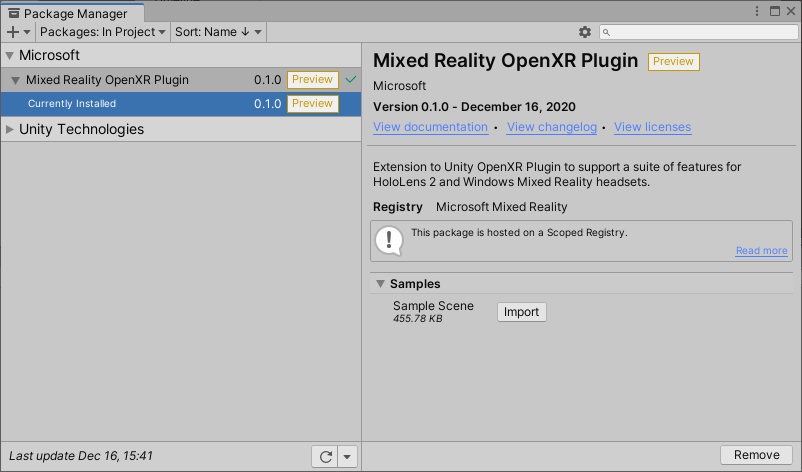
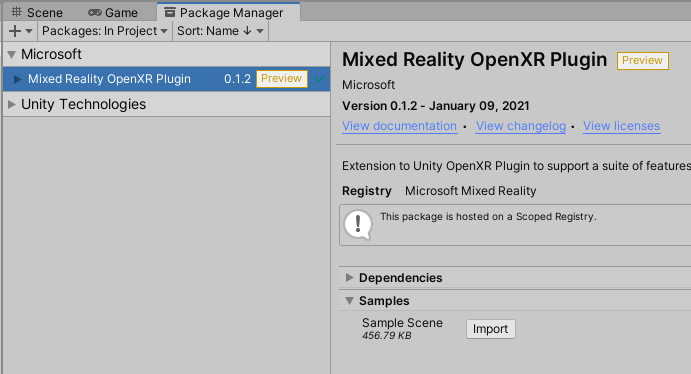
Add content for 0.1.2 release

diff --git a/mixed-reality-docs/mr-dev-docs/develop/unity/openxr-getting-started.md b/mixed-reality-docs/mr-dev-docs/develop/unity/openxr-getting-started.md
@@ -8,7 +8,6 @@ ms.topic: article
 keywords: openxr, unity, hololens, hololens 2, mixed reality, MRTK, Mixed Reality Toolkit, augmented reality, virtual reality, mixed reality headsets, learn, tutorial, getting started
 ---
 
-
 # Using the Mixed Reality OpenXR Plugin for Unity
 
 Starting with Unity version 2020.2, Microsoft’s Mixed Reality OpenXR Plugin package is available using the Unity Package Manager (UPM).
@@ -16,7 +15,7 @@ Starting with Unity version 2020.2, Microsoft’s Mixed Reality OpenXR Plugin pa
 ## Prerequisites
 
 * Unity 2020.2 or later
-* Unity OpenXR plugin 0.1.1 or later
+* Unity OpenXR plugin 0.1.2 or later
 * Visual Studio 2019 or later
 * Install **UWP** platform support in Unity for HoloLens 2 apps
 
@@ -58,7 +57,7 @@ To add the OpenXR package:
 
     ``` json
       "dependencies": {
-        "com.microsoft.mixedreality.openxr": "0.1.1",
+        "com.microsoft.mixedreality.openxr": "0.1.2",
       }
     ```
 
@@ -105,7 +104,7 @@ To utilize one or more of the examples, install [ARFoundation 4.0+](https://docs
 2. In the list of packages, select **Mixed Reality OpenXR Plugin**
 3. Locate the sample in the **Samples** list and select **Import**
 
-![Screenshot of Unity Package Manager open in Unity editor with Mixed Reality OpenXR Plugin selected and samples import button highlighted](images/openxr-img-10.png)
+![Screenshot of Unity Package Manager open in Unity editor with Mixed Reality OpenXR Plugin selected and samples import button highlighted](images/openxr-img-03.png)
 
 <!-- ### For all other OpenXR samples
 
@@ -117,6 +116,33 @@ To utilize one or more of the examples, install [ARFoundation 4.0+](https://docs
 
 > [!NOTE]
 > When a package is updated, Unity provides the option to update imported samples.  Updating an imported sample will overwrite any changes that have been made to the sample and associated assets.
+
+## Using MRTK with OpenXR support
+
+MRTK Unity supports the Mixed Reality OpenXR plugin starting with the 2.5.3 release.  MRTK plugins can be installed from the same scoped registries as you set up when [installing the Mixed Reality OpenXR plugin](#installing-the-mixed-reality-openxr-plugin). You can find more detailed information in the [MRTK documentation](https://microsoft.github.io/MixedRealityToolkit-Unity/Documentation/usingupm.html#registering-the-mixed-reality-component-server).
+
+1. Add following packages in your **[projectRoot]/Packages/manifest.json** file:
+
+```json
+"dependencies": {
+"com.microsoft.mixedreality.toolkit.foundation": "2.5.3",
+    "com.microsoft.mixedreality.toolkit.tools": "2.5.3",
+    "com.microsoft.mixedreality.toolkit. examples": "2.5.3",
+	…
+}
+```
+
+2. Go to the MixedReality Toolkit component script in the Inspector and switch to the **DefaultOpenXRConfigurationProfile** profile:
+
+![Screenshot of switching the MRTK configuration in the Mixed Reality Toolkit component in the inspector](images/openxr-img-11.png)
+
+### Known issues 
+
+When using the Hand Tracking feature, add following line in the **Assets/MixedRealityToolkit.Generated/link.xml** file:
+
+```
+<assembly fullname = "Microsoft.MixedReality.Toolkit.Providers.OpenXR" preserve="all"/>
+```
 
 ## Next steps
 

diff --git a/mixed-reality-docs/mr-dev-docs/develop/unity/openxr-supported-features.md b/mixed-reality-docs/mr-dev-docs/develop/unity/openxr-supported-features.md
@@ -11,14 +11,14 @@ keywords: openxr, unity, hololens, hololens 2, mixed reality, MRTK, Mixed Realit
 
 # Mixed Reality OpenXR supported features in Unity
 
-The **Mixed Reality OpenXR Plugin** package is an extension of Unity's **OpenXR Plugin** and supports a suite of features for HoloLens 2 and Windows Mixed Reality headsets. Before continuing, make sure that you've installed **Unity 2020.2** or later, **OpenXR Plugin version 0.1.1** or later, and your Unity project is [configured for OpenXR](openxr-getting-started.md).
+The **Mixed Reality OpenXR Plugin** package is an extension of Unity's **OpenXR Plugin** and supports a suite of features for HoloLens 2 and Windows Mixed Reality headsets. Before continuing, make sure that you've installed **Unity 2020.2** or later, **OpenXR Plugin version 0.1.2** or later, and your Unity project is [configured for OpenXR](openxr-getting-started.md).
 
 ## What's supported
 
 The following features are currently supported:
 
-* Supports both UWP applications for HoloLens 2 and Win32 VR applications for Windows Mixed Reality headsets.
-* Optimizes UWP package and CoreWindow interaction for HoloLens 2 applications.
+* Supports UWP applications for HoloLens 2, and optimize for HoloLens 2 application model.
+* Supports Win32 VR applications for Windows Mixed Reality headset with latest controller profiles and holographic app remoting.
 * World scale tracking using Anchors and Unbounded space.
 * [Anchor storage API to persist anchors](#anchors-and-anchor-persistence) to HoloLens 2 local storage.
 * [Motion controller and hand interactions](#motion-controller-and-hand-interactions), including the new HP Reverb G2 controller.
@@ -27,7 +27,7 @@ The following features are currently supported:
 * Locating photo/video (PV) camera on HoloLens 2.
 * Mixed Reality Capture using 3rd eye rendering through PV camera.
 * Supports ["Play" to HoloLens 2 with the Holographic Remoting app](#holographic-remoting-in-unity-editor-play-mode), allowing developers to debug scripts without building and deploying to the device.
-* Compatible with MRTK Unity 2.5.2 and newer through MRTK OpenXR provider support. [See the MRTK documentation](https://microsoft.github.io/MixedRealityToolkit-Unity/Documentation/GettingStartedWithMRTKAndXRSDK.html) to get started.
+* Compatible with MRTK Unity 2.5.3 and newer through MRTK OpenXR provider support. [See the MRTK documentation](openxr-getting-started.md#using-mrtk-with-openxr-support) to get started.
 * Compatible with Unity [ARFoundation 4.0](https://docs.unity3d.com/Packages/com.unity.xr.arfoundation@4.1/manual/index.html) or later
 
 ## Holographic Remoting in Unity Editor play mode
